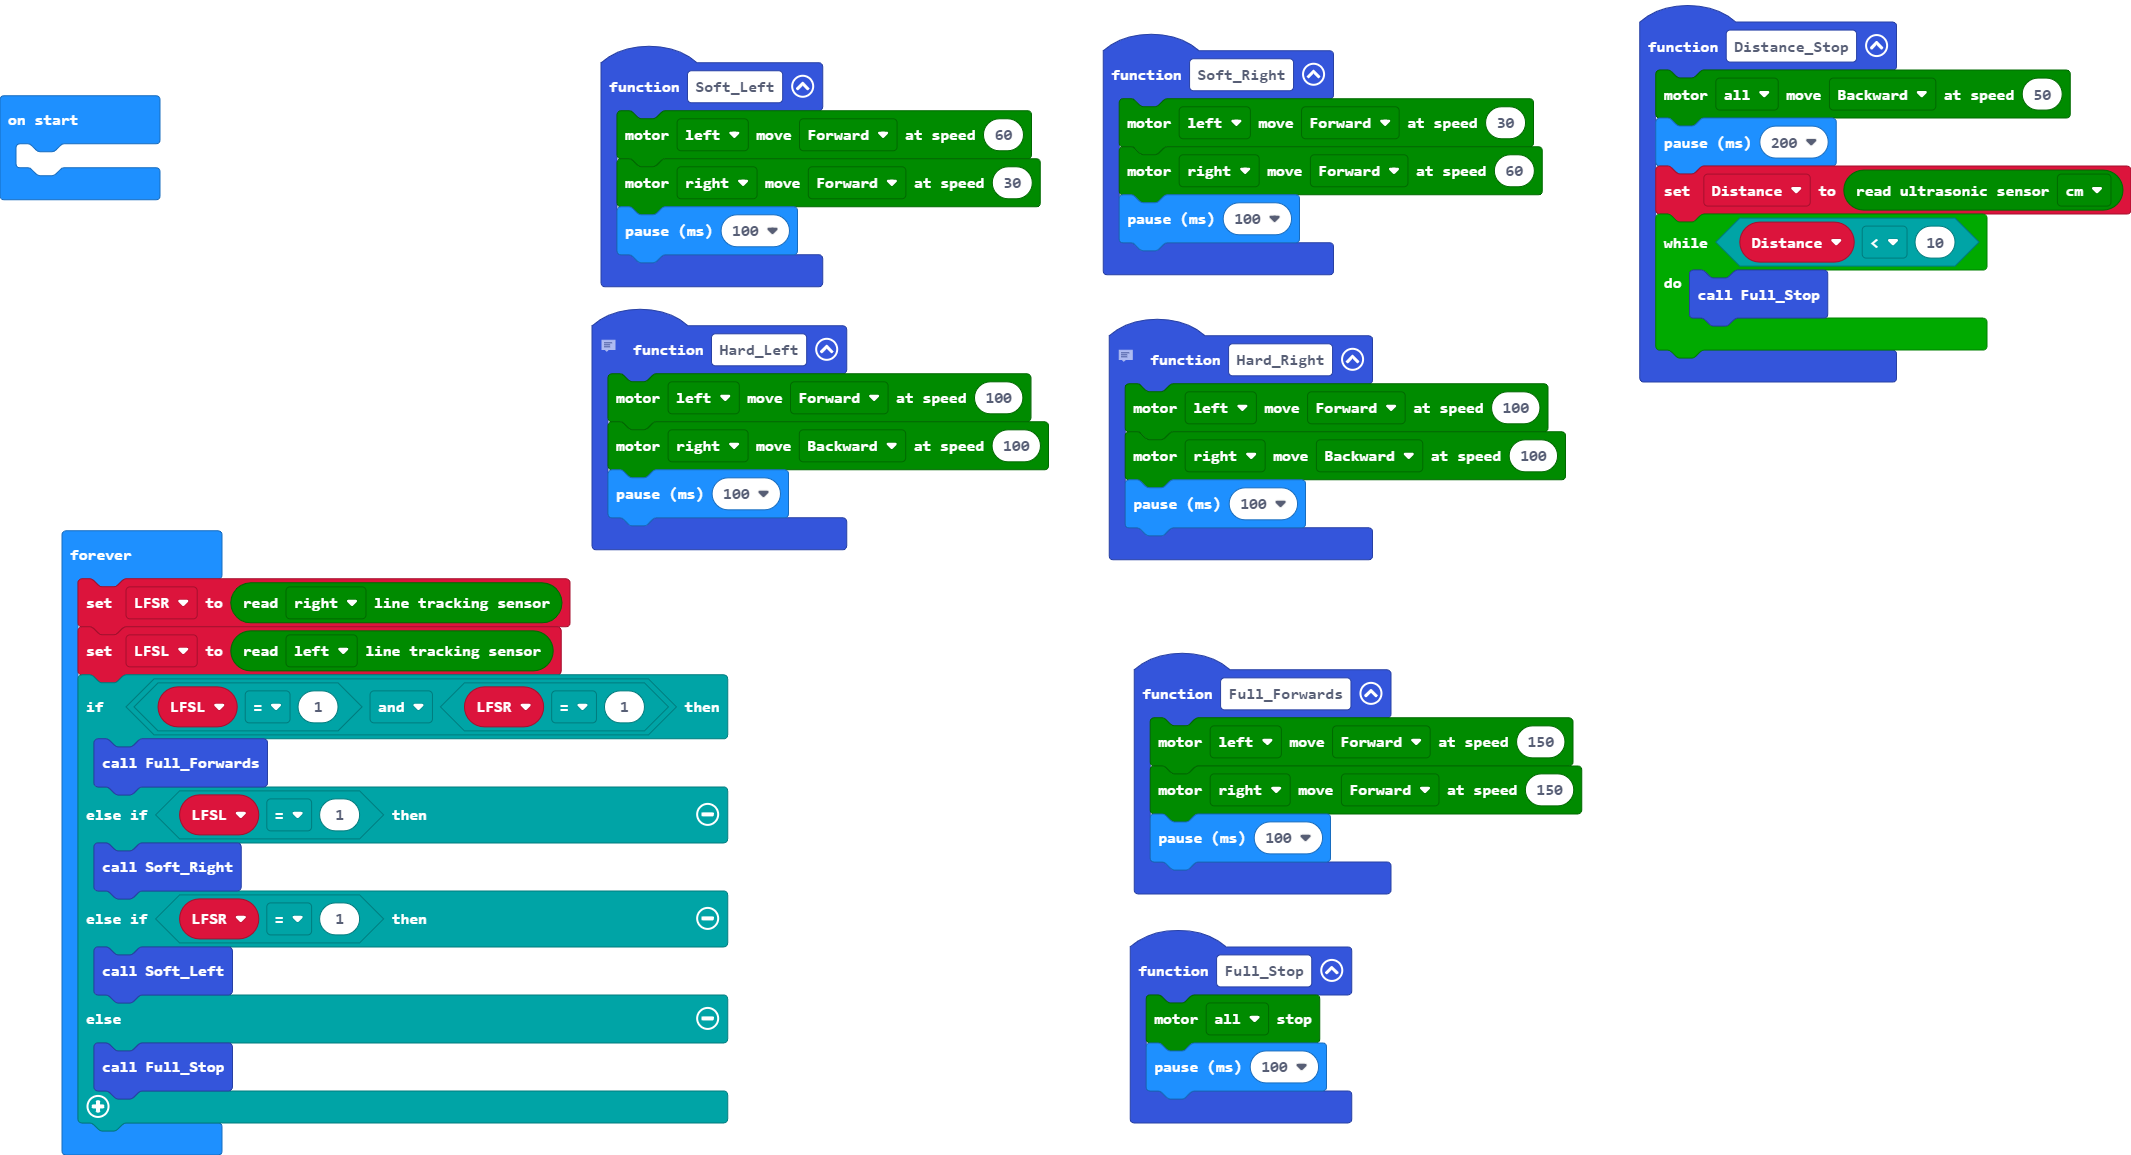
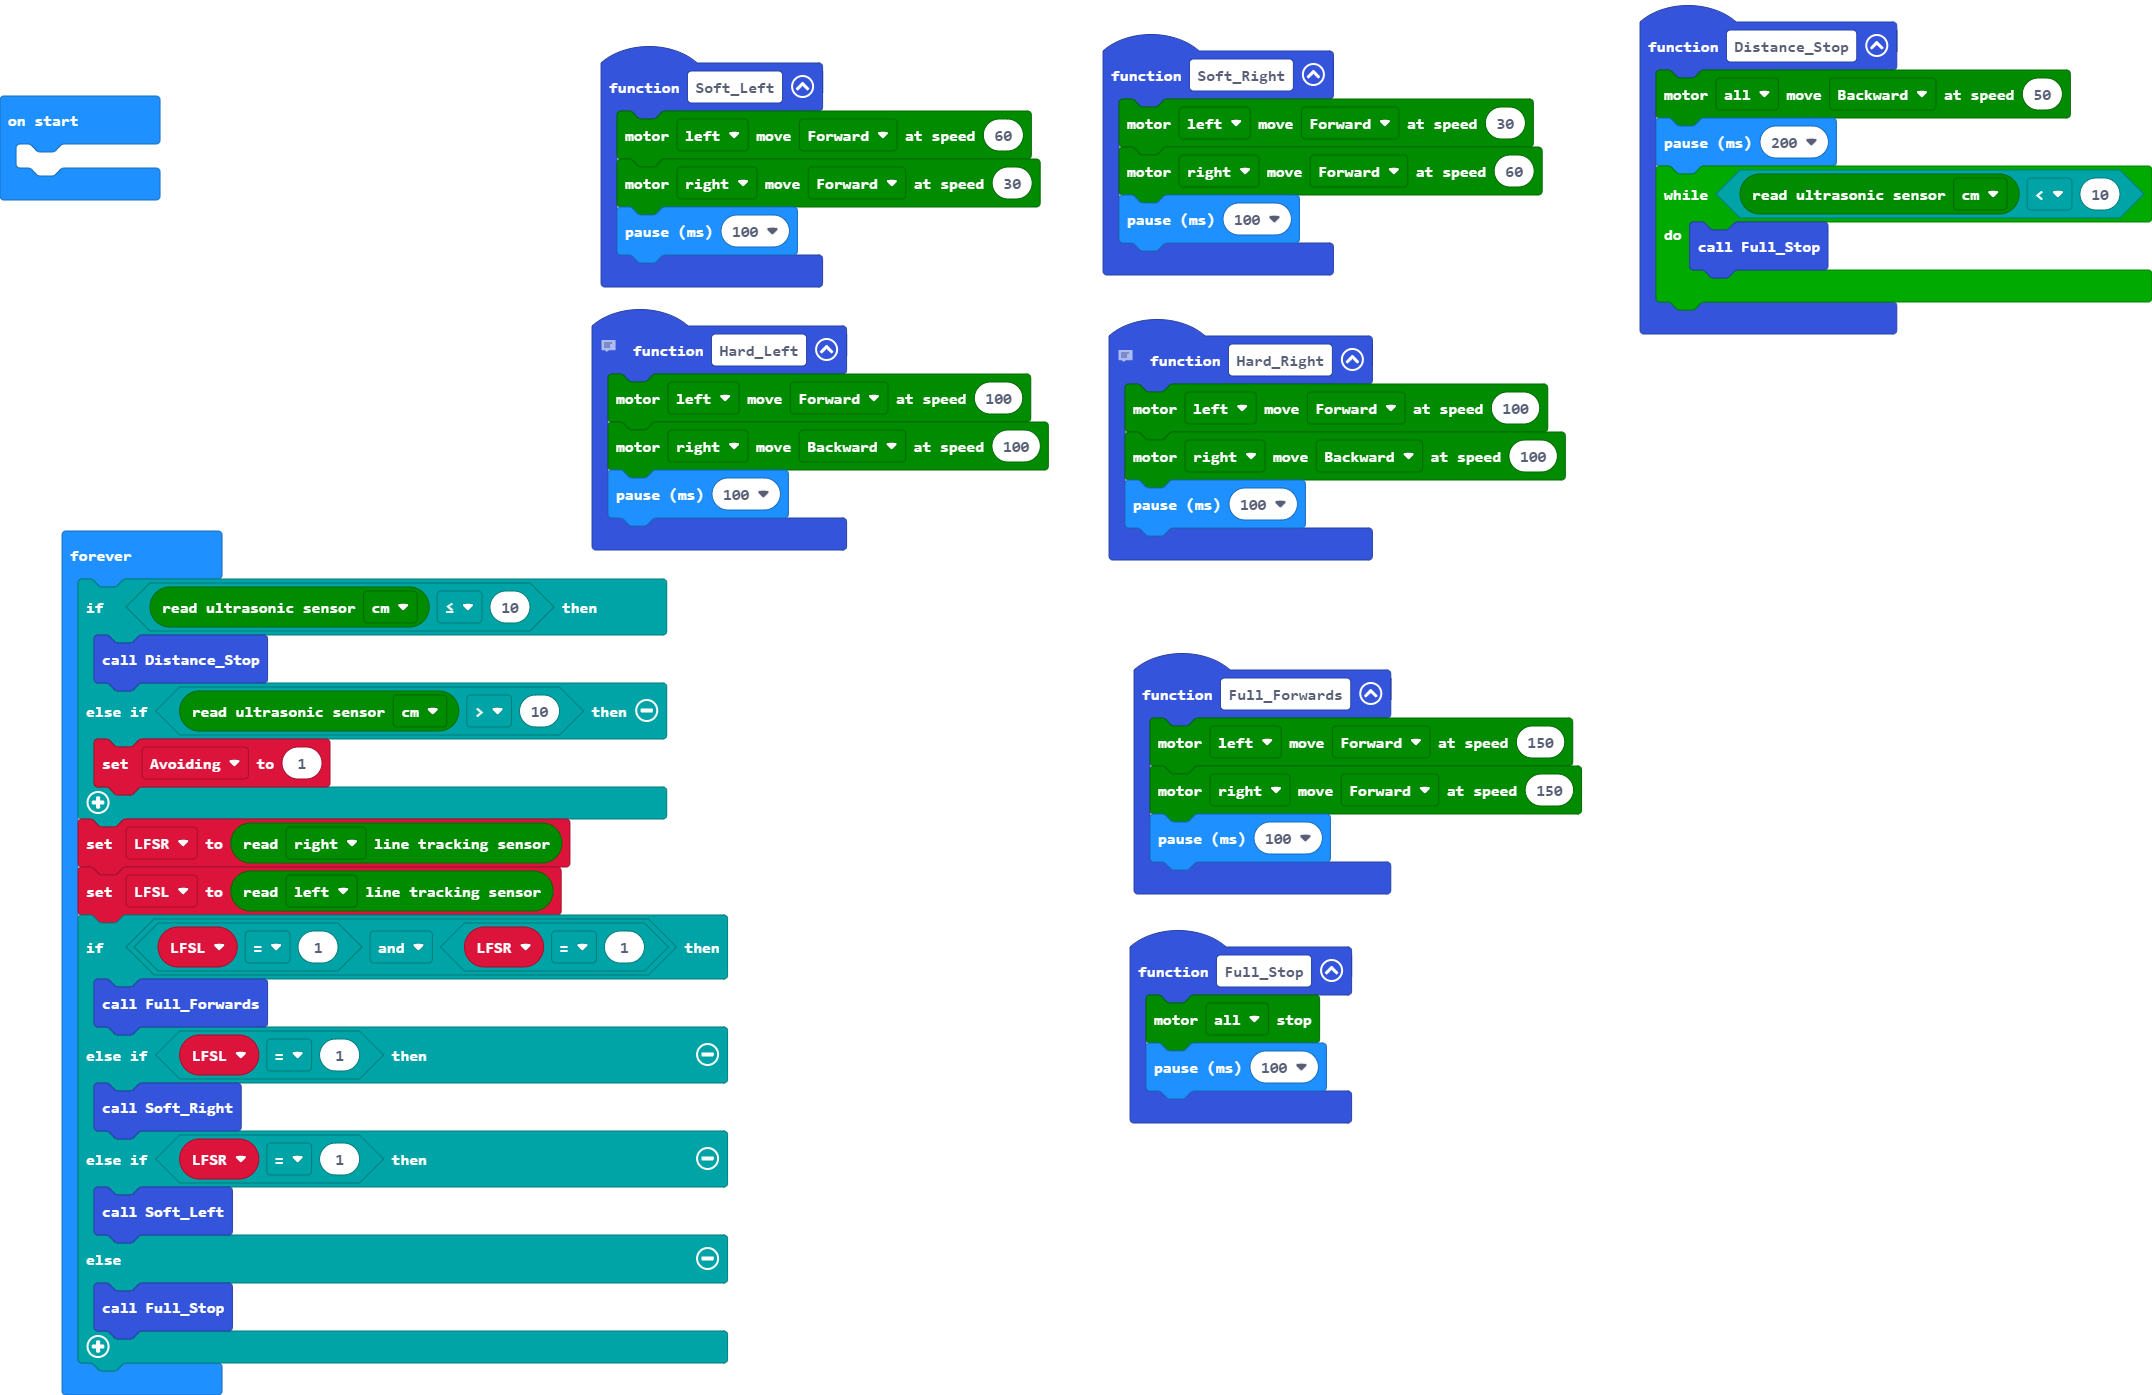
Update main.blocks, main.ts

diff --git a/main.ts b/main.ts
@@ -1,4 +1,4 @@
-let Distance = 0
+let Avoiding = 0
 let LFSR = 0
 let LFSL = 0
 function Full_Stop () {
@@ -18,8 +18,7 @@ function Soft_Left () {
 function Distance_Stop () {
     maqueen.motorRun(maqueen.Motors.All, maqueen.Dir.CCW, 50)
     basic.pause(200)
-    Distance = maqueen.Ultrasonic(PingUnit.Centimeters)
-    while (Distance < 10) {
+    while (maqueen.Ultrasonic(PingUnit.Centimeters) < 10) {
         Full_Stop()
     }
 }
@@ -41,6 +40,11 @@ function Hard_Right () {
     basic.pause(100)
 }
 basic.forever(function () {
+    if (maqueen.Ultrasonic(PingUnit.Centimeters) <= 10) {
+        Distance_Stop()
+    } else if (maqueen.Ultrasonic(PingUnit.Centimeters) > 10) {
+        Avoiding = 1
+    }
     LFSR = maqueen.readPatrol(maqueen.Patrol.PatrolRight)
     LFSL = maqueen.readPatrol(maqueen.Patrol.PatrolLeft)
     if (LFSL == 1 && LFSR == 1) {
